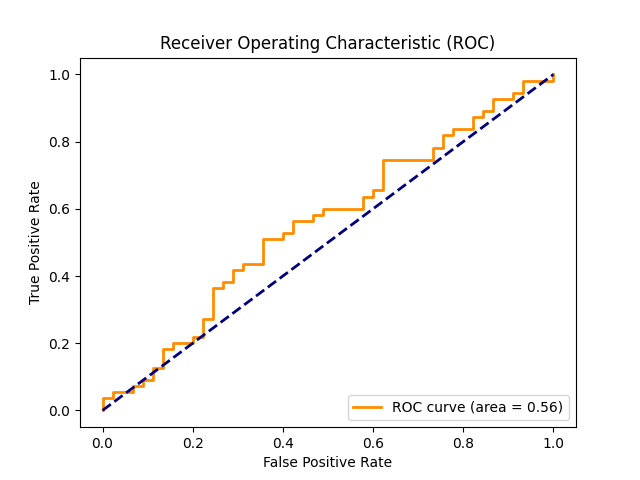
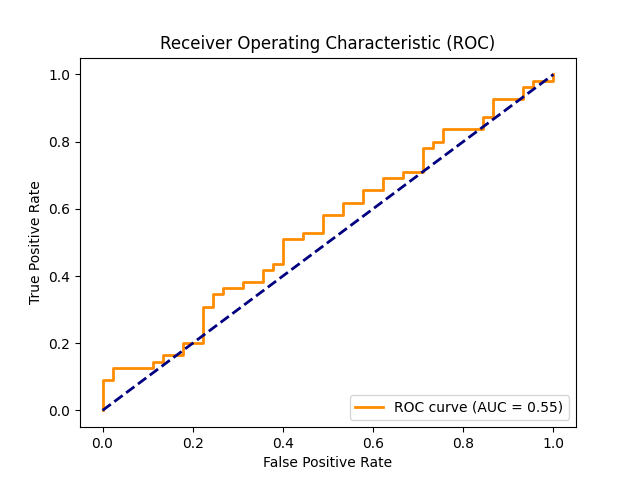
v2

diff --git a/src/EvaluationManager.py b/src/EvaluationManager.py
@@ -23,7 +23,7 @@ class EvaluationManager:
         """
         y_pred = self._get_predictions()
         cm = confusion_matrix(self.y_test, y_pred)
-        
+
         plt.figure(figsize=(6, 6))
         plt.imshow(cm, interpolation='nearest', cmap=plt.cm.Blues)
         plt.title('Confusion Matrix')
@@ -43,13 +43,16 @@ class EvaluationManager:
     def classification_report(self):
         """
         Generate and save the classification report to a text file.
+        Handles cases where precision/recall might be undefined.
         """
         y_pred = self._get_predictions()
-        report = classification_report(self.y_test, y_pred, output_dict=True)
-
-        report_str = classification_report(self.y_test, y_pred)
-        report_path = os.path.join(self.output_dir, "classification_report.txt")
         
+        # Handle zero-division warnings
+        report = classification_report(self.y_test, y_pred, output_dict=True, zero_division=0)
+        
+        report_str = classification_report(self.y_test, y_pred, zero_division=0)
+        report_path = os.path.join(self.output_dir, "classification_report.txt")
+
         with open(report_path, "w") as f:
             f.write(report_str)
 
@@ -58,14 +61,22 @@ class EvaluationManager:
 
     def roc_curve(self):
         """
-        Generate and save the ROC curve for binary classification.
+        Generate and save the ROC curve for binary or multi-class classification.
         """
         y_prob = self._get_probabilities()
-        
-        fpr, tpr, _ = roc_curve(self.y_test, y_prob[:, 1])
-        roc_auc = auc(fpr, tpr)
-        
-        plt.plot(fpr, tpr, color='darkorange', lw=2, label=f'ROC curve (area = {roc_auc:.2f})')
+
+        if len(np.unique(self.y_test)) > 2:
+            # Multi-class ROC curve (One-vs-Rest)
+            for i in range(y_prob.shape[1]):
+                fpr, tpr, _ = roc_curve(self.y_test == i, y_prob[:, i])
+                roc_auc = auc(fpr, tpr)
+                plt.plot(fpr, tpr, lw=2, label=f'Class {i} (AUC = {roc_auc:.2f})')
+        else:
+            # Binary classification ROC curve
+            fpr, tpr, _ = roc_curve(self.y_test, y_prob[:, 1])
+            roc_auc = auc(fpr, tpr)
+            plt.plot(fpr, tpr, color='darkorange', lw=2, label=f'ROC curve (AUC = {roc_auc:.2f})')
+
         plt.plot([0, 1], [0, 1], color='navy', lw=2, linestyle='--')
         plt.xlabel('False Positive Rate')
         plt.ylabel('True Positive Rate')

diff --git a/src/ModelManager.py b/src/ModelManager.py
@@ -125,3 +125,4 @@ class ModelManager:
         Retrieve the stored training loss history.
         """
         return self.history
+    
